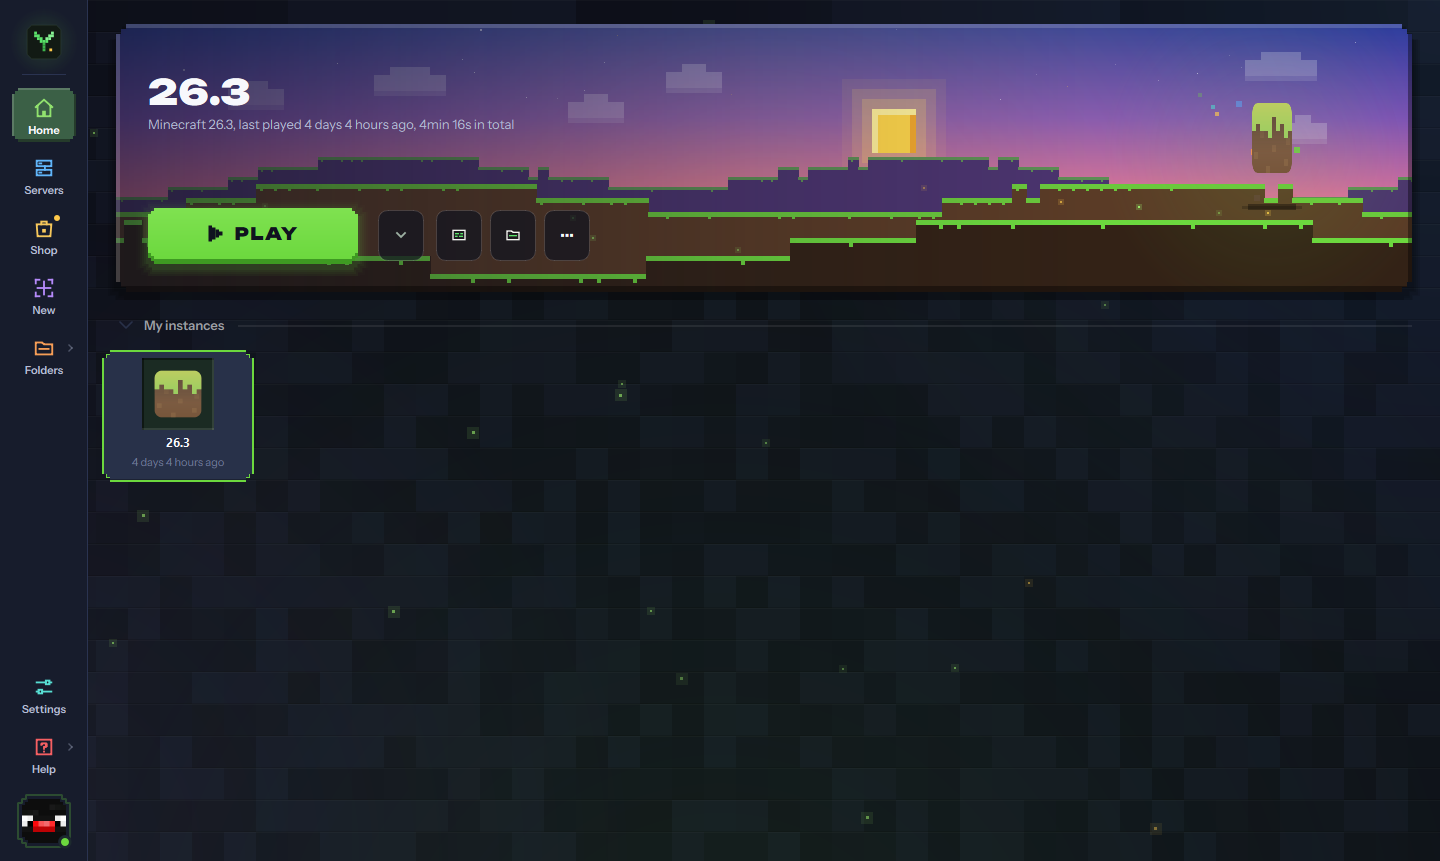
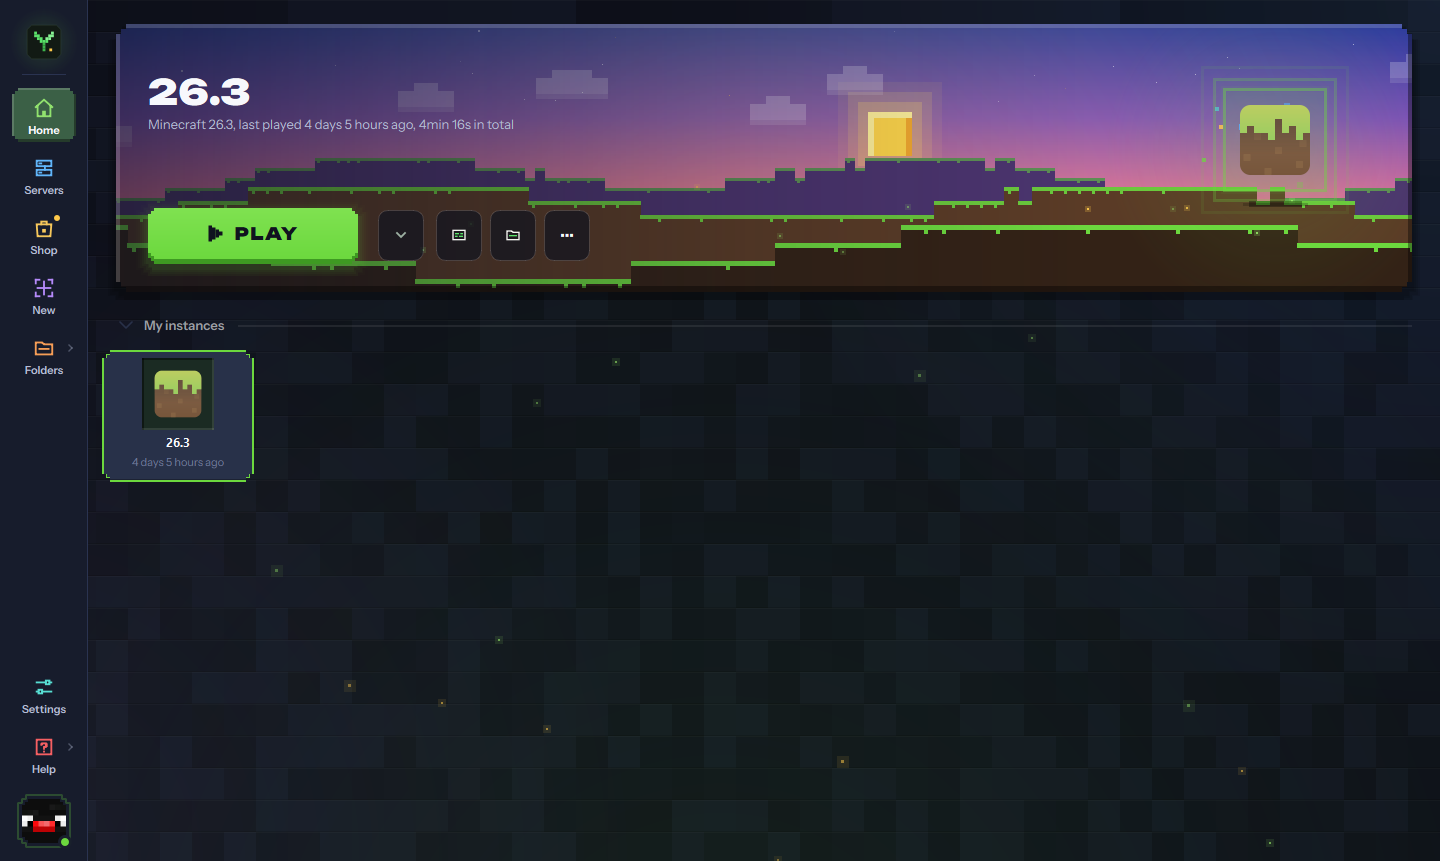
feat: pixel aura instead of the turning emblem
The floating instance no longer turns; square rings step outwards from it
and fade instead.

diff --git a/launcher/ui/yahu/YahuHero.cpp b/launcher/ui/yahu/YahuHero.cpp
@@ -305,11 +305,11 @@ bool YahuHero::eventFilter(QObject* watched, QEvent* event)
 
 void YahuHero::paintEmblem(QPainter& p, const QPointF& center, qreal t)
 {
-    // the instance floats over the hills like a dropped item: bobbing, slowly turning, a pixel shadow on the ground
-    // and a few sparks in block colors rising around it; while the game runs it turns faster and sparks in gold
+    // the instance floats over the hills: bobbing, with a pixel aura (square rings that grow out of it and fade),
+    // a pixel shadow on the ground and a few sparks in block colors rising around it; gold and quicker while the
+    // game runs
+    const QColor tone = m_running ? gold : accent;
     const qreal bob = qSin(t * kTau / 3.0) * 6.0;
-    const qreal turn = t * (m_running ? 2.4 : 0.9) + m_spin * 0.05;
-    const qreal width = qMax(0.12, qAbs(qCos(turn)));  // seen from the side it is thin, never gone
     const qreal size = kItem * (0.82 + 0.18 * m_swap);
     const QPointF item = center + QPointF(0, bob - 8);
 
@@ -317,8 +317,26 @@ void YahuHero::paintEmblem(QPainter& p, const QPointF& center, qreal t)
     p.setRenderHint(QPainter::Antialiasing, false);
     p.setPen(Qt::NoPen);
 
+    // aura: a soft square glow, and three rings stepping outwards one after another
+    for (int i = 3; i >= 1; --i) {
+        const qreal r = size / 2 + i * 6;
+        p.setBrush(withAlpha(tone, 0.05));
+        p.drawRect(QRectF(item.x() - r, item.y() - r, r * 2, r * 2));
+    }
+    const qreal speed = m_running ? 0.7 : 0.35;
+    for (int i = 0; i < 3; ++i) {
+        const qreal phase = std::fmod(t * speed + i / 3.0, 1.0);
+        const qreal r = std::round((size / 2 + 4 + phase * 34) / 2) * 2;  // on a 2px grid, so it steps like pixels
+        const qreal w = 3.0;
+        const QColor c = withAlpha(tone, 0.5 * (1.0 - phase));
+        p.fillRect(QRectF(item.x() - r, item.y() - r, r * 2, w), c);
+        p.fillRect(QRectF(item.x() - r, item.y() + r - w, r * 2, w), c);
+        p.fillRect(QRectF(item.x() - r, item.y() - r + w, w, r * 2 - w * 2), c);
+        p.fillRect(QRectF(item.x() + r - w, item.y() - r + w, w, r * 2 - w * 2), c);
+    }
+
     // shadow: a flat dark block on the ground, smaller while the item is up high
-    const qreal shadow = size * (0.62 - bob * 0.012) * (0.6 + 0.4 * width);
+    const qreal shadow = size * (0.62 - bob * 0.012);
     p.setBrush(withAlpha(Qt::black, 0.35));
     p.drawRect(QRectF(center.x() - shadow / 2, center.y() + kItem * 0.62, shadow, 6));
     p.setBrush(withAlpha(Qt::black, 0.2));
@@ -335,18 +353,12 @@ void YahuHero::paintEmblem(QPainter& p, const QPointF& center, qreal t)
     }
     p.restore();
 
-    // the icon, squeezed sideways to turn; drawn from a pixmap so the motion stays smooth
-    QPixmap pm = m_icon.pixmap(QSize(int(kItem), int(kItem)), devicePixelRatioF());
-    if (qCos(turn) < 0) {
-        // the back side is a bit darker, so the turn reads; only where the icon has pixels
-        QPainter shade(&pm);
-        shade.setCompositionMode(QPainter::CompositionMode_SourceAtop);
-        shade.fillRect(pm.rect(), withAlpha(Qt::black, 0.3));
-    }
+    // the icon, drawn from a pixmap so the float stays smooth
+    const QPixmap pm = m_icon.pixmap(QSize(int(kItem), int(kItem)), devicePixelRatioF());
     p.save();
     p.setOpacity(qBound(0.0, m_swap * 1.5, 1.0));
     p.setRenderHint(QPainter::SmoothPixmapTransform, false);  // keep pixel icons crisp
-    const QRectF target(item.x() - size * width / 2, item.y() - size / 2, size * width, size);
+    const QRectF target(item.x() - size / 2, item.y() - size / 2, size, size);
     p.drawPixmap(target, pm, QRectF(pm.rect()));
     p.restore();
 }

diff --git a/YAHU.md b/YAHU.md
@@ -8,7 +8,7 @@ Under the hood it is still Prism, so every Prism feature works the same way: ins
 - **Block look** (`launcher/ui/themes/YahuTheme.cpp`, tokens and shapes in `launcher/ui/yahu/YahuStyle.h`): everything looks like blocks in pixel art. `YahuStyle::rounded()` gives every painted shape stepped pixel corners and `blockEdges()` the 3D edges (light top and left, dark bottom and right); the stylesheet does the same for Qt widgets with 2px borders, buttons with a thick bottom edge that sinks in when pressed, inputs sunk into the surface and progress that fills in blocks. Each kind of thing has its own block color (`blockColor()`: grass, sky, gold, amethyst, copper, diamond, redstone): the sidebar entries, the top edge of panels (`yahuTone` property: sky, grass, amethyst, gold) and red buttons that delete something (`yahuDanger`). The home banner shows a sunset with a square sun, blocky clouds and grass on dirt hills (`YahuStyle::scene`); the window background is a dark wall of blocks with colored light. Gold while a game runs. Fonts: Unbounded (headings), Silkscreen (pixel labels), Instrument Sans (text). Nothing is taken from Minecraft itself: no textures, fonts or art.
 - **Color palettes** (KAN-7): *Overworld* (default: night blue with the sunset banner), *Black*, *Night Grass* (the first, moss-green look) and *Ocean* (blue with a cyan accent); the last three keep the night banner. Picked under *Settings > General > Theme*. `YahuStyle::applyPalette()` sets the tokens once at startup from the `YahuPalette` setting, before the theme builds its stylesheet, so a change shows after a restart. A new palette is one more entry in `YahuStyle::palettes()`.
 - **Custom icon set** (`launcher/resources/yahu/icons`, generated by `generate.py`).
-- **App shell**: a narrow icon rail with a sliding marker in `YahuSidebar`, a backdrop with fireflies that scatter when the mouse sweeps through in `YahuBackdrop`, click effects in `YahuFxLayer`, and the hero banner in `YahuHero` / `YahuPlayButton`: a pixel landscape with parallax (sunset or night, see the block look) where the selected instance floats like a dropped item: it bobs and slowly turns (squeezed sideways, darker on its back), with a pixel shadow on the ground and sparks in block colors; faster and in gold while the game runs.
+- **App shell**: a narrow icon rail with a sliding marker in `YahuSidebar`, a backdrop with fireflies that scatter when the mouse sweeps through in `YahuBackdrop`, click effects in `YahuFxLayer`, and the hero banner in `YahuHero` / `YahuPlayButton`: a pixel landscape with parallax (sunset or night, see the block look) where the selected instance floats and bobs, with a pixel aura (square rings that step outwards from it and fade), a pixel shadow on the ground and sparks in block colors; gold and quicker while the game runs. It doesn't turn: a flat icon squeezed sideways looked cheap.
 - **Instance cards** (`launcher/ui/instanceview/InstanceDelegate.cpp`): flat blocks that fade in staggered and lift a little on hover. The icon sits in a sunk-in slot like an inventory item; the selected card (gold while playing) gets a frame on the inside. "Last played" reads like "2 days 5 hours ago" (`Time::relativeAgo` in `launcher/MMCTime.cpp`).
 - **Single window** (`launcher/ui/yahu/YahuSheetHost.cpp`): dialogs and secondary windows appear as frameless overlays over the main window, as a full page or a card. Behind a card the launcher is drawn from a snapshot and dimmed, because Windows doesn't reliably make these overlay windows see-through. Overlays are always parented to the top-level window: parenting one to a child widget made Qt give that part of the launcher native windows, and the click-effect layer (`YahuFxLayer`) then swallowed every real click while Minecraft ran (KAN-12). `main.cpp` also sets `AA_DontCreateNativeWidgetSiblings`, and the effect layer answers `WM_NCHITTEST` with `HTTRANSPARENT`, so this can't come back.
 - **Servers tab** (`launcher/ui/yahu/YahuServersPage.cpp`, `launcher/ui/dialogs/ServerSettingsDialog.cpp`): see below.

diff --git a/discord/features.md b/discord/features.md
@@ -75,7 +75,7 @@ Unser eigener Minecraft Launcher. Basiert auf Prism Launcher, hat also alles was
 **Nächste Version (noch nicht veröffentlicht)**
 - Selbst mit der eigenen Adresse joinen geht jetzt automatisch: Sobald der Server online ist, fragt Windows einmal nach Erlaubnis, einfach mit Ja bestätigen
 - Neue Server haben eine Sichtweite von 24 Chunks statt 10, man sieht viel weiter
-- Neues Block Design: Pixel Ecken, Knöpfe mit 3D Kante, jede Seite mit eigener Farbe, Sonnenuntergang im Banner, die Instanz schwebt oben rechts wie ein Item, aufgeräumte Instanz Karten und das neue Standard Theme Overworld
+- Neues Block Design: Pixel Ecken, Knöpfe mit 3D Kante, jede Seite mit eigener Farbe, Sonnenuntergang im Banner, die Instanz schwebt oben rechts mit leuchtenden Pixel Ringen, aufgeräumte Instanz Karten und das neue Standard Theme Overworld
 
 ## 🔜 Bald
 - Cosmetics Shop mit Umhängen, Flügeln und Hüten
